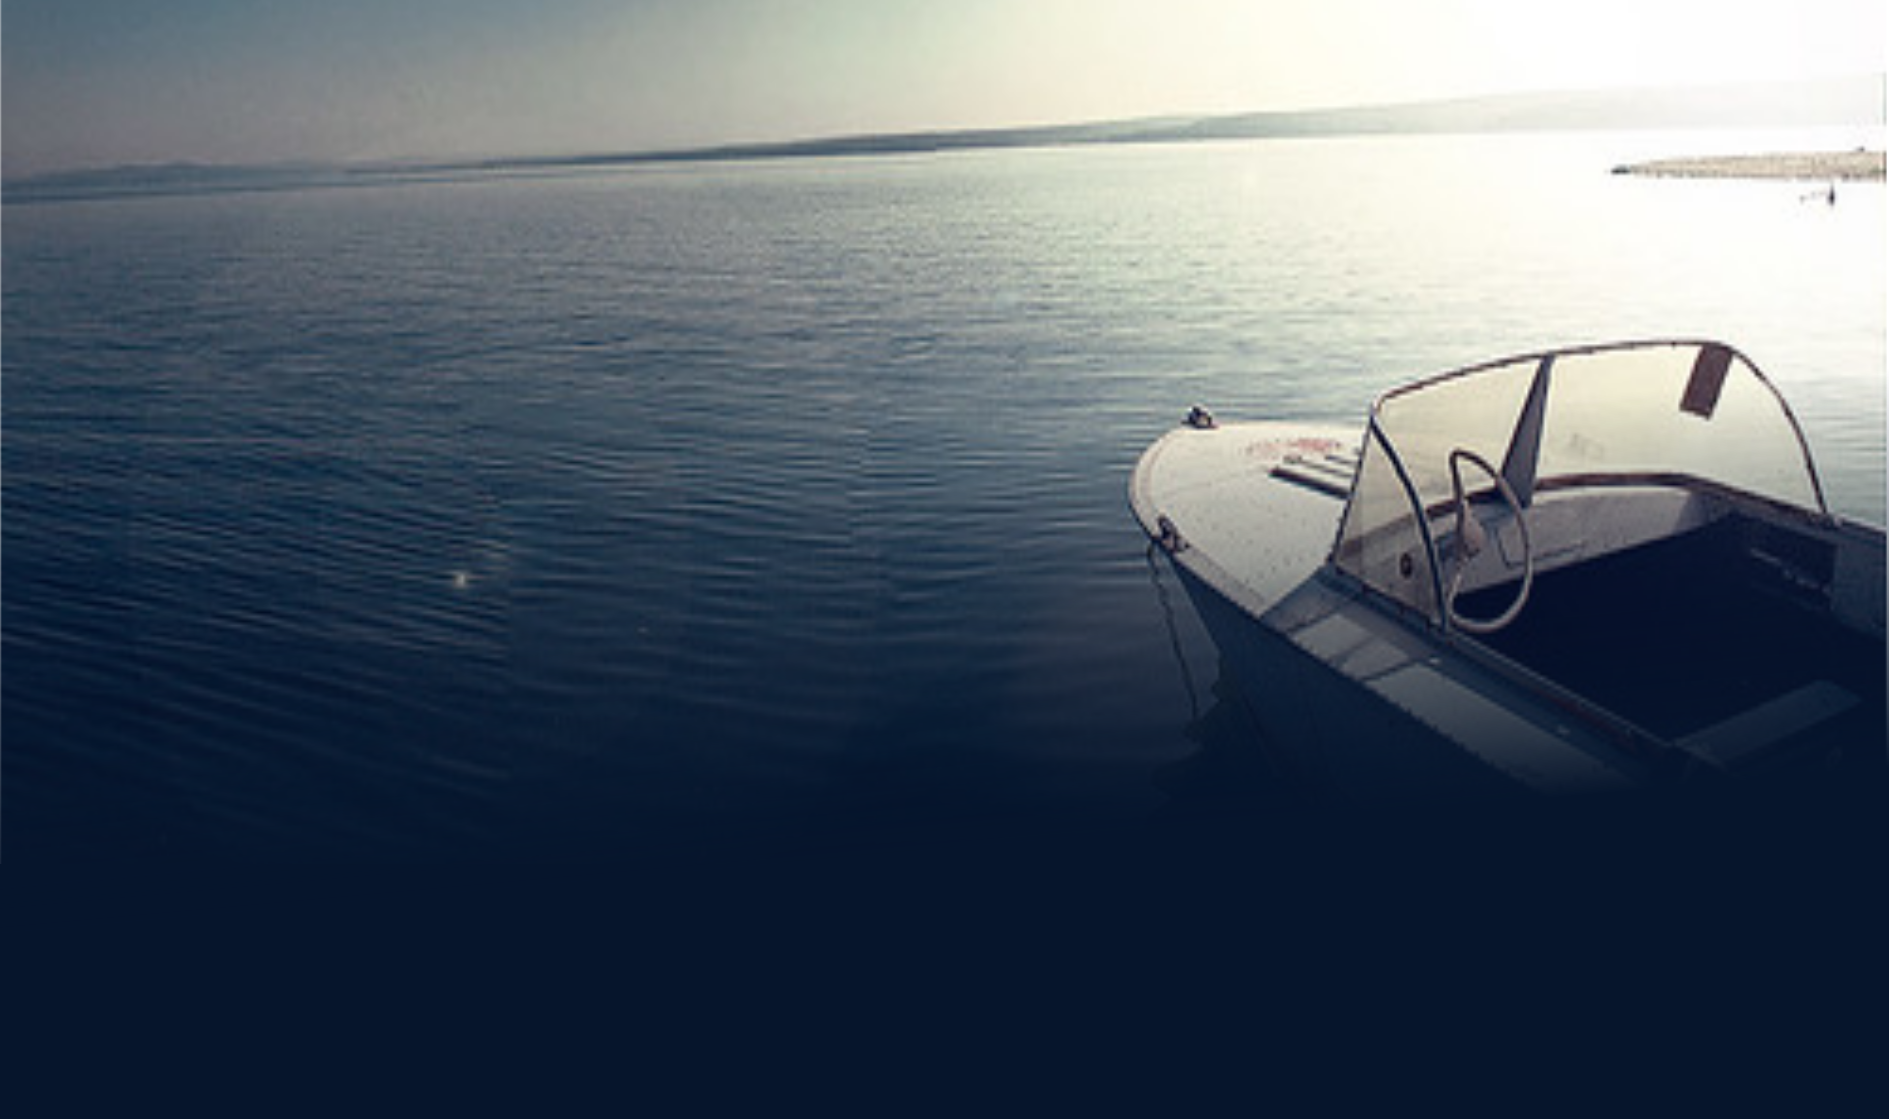
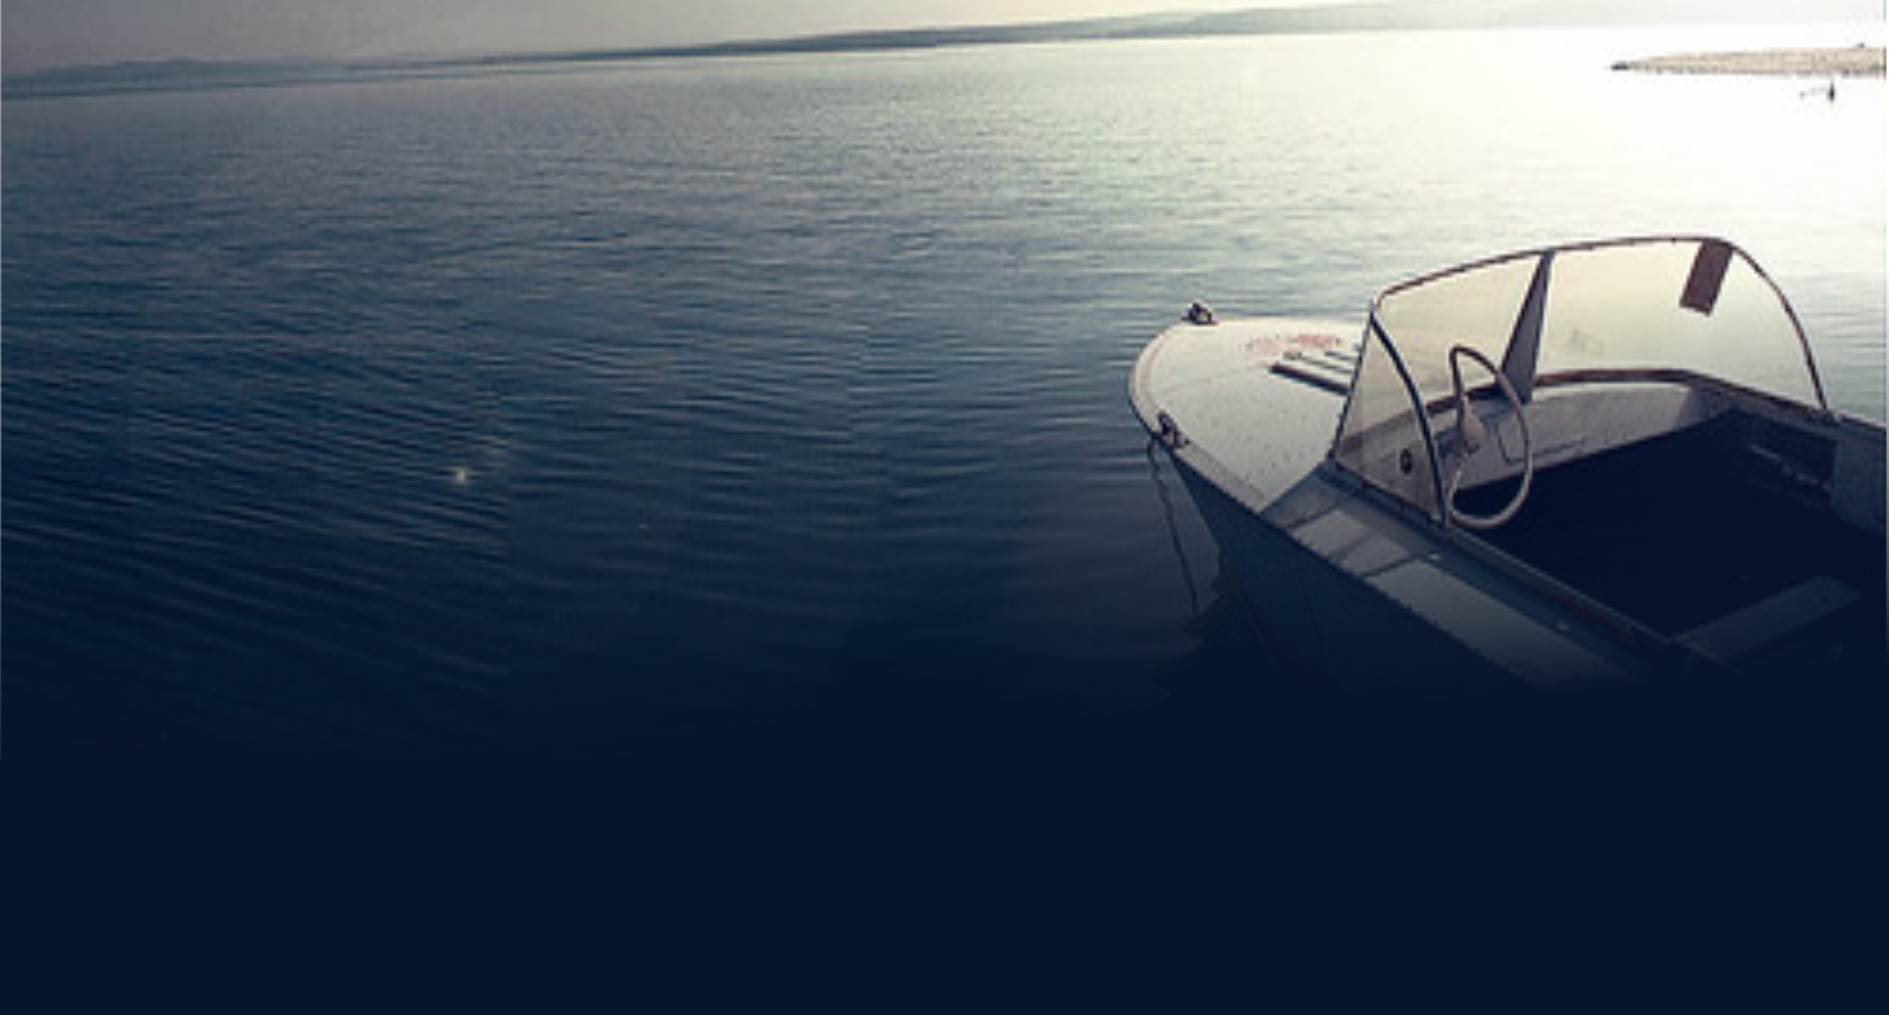
Nyt CVR

diff --git a/index.html b/index.html
@@ -1,53 +1,120 @@
 <!doctype html>
-<html lang="en">
+<html lang="da">
+    <head>
+        <meta charset="utf-8">
+        <meta name="viewport" content="width=device-width, initial-scale=1, shrink-to-fit=no">
+        <link rel="stylesheet" href="https://stackpath.bootstrapcdn.com/bootstrap/4.3.1/css/bootstrap.min.css" integrity="sha384-ggOyR0iXCbMQv3Xipma34MD+dH/1fQ784/j6cY/iJTQUOhcWr7x9JvoRxT2MZw1T" crossorigin="anonymous">
+        <link rel="stylesheet" href="header-footer.css" type="text/css" />
+        <link rel="stylesheet" href="styles.css" type="text/css" />
+        <link rel="SHORTCUT ICON" href="img/favicon.png" />
+        <link href="https://fonts.googleapis.com/css?family=Lexend+Exa&display=swap" rel="stylesheet">
+        <title>M.S. Bådteknik</title>
+    </head>
+  
+    <body>
 
-<head>
-    <meta http-equiv="Content-Type" content="text/html; charset=iso-8859-1" />
-    <style type="text/css"></style>
-    <link rel="stylesheet" href="styles.css" type="text/css" />
-    <meta content="Text/html" charset="utf-8" lang="da" />
-    <meta name="viewport" content="width=device-width, initial-scale=1, shrink-to-fit=no">
-    <title>M.S. Baadteknik</title>
-    <link rel="SHORTCUT ICON" href="img/favicon.png" />
-    <link rel="stylesheet" href="https://stackpath.bootstrapcdn.com/bootstrap/4.2.1/css/bootstrap.min.css"
-        integrity="sha384-GJzZqFGwb1QTTN6wy59ffF1BuGJpLSa9DkKMp0DgiMDm4iYMj70gZWKYbI706tWS" crossorigin="anonymous">
-</head>
-
-<body>
-
-
-
-
-
-
-
-
-
-    <div class="container">
-        <div class="row">
-            <div class="col-sm">
-                One of three columns
+        <nav class="navbar navbar-expand-sm navbar-light">
+            <div class="container">
+                <a href="index.html" class="navbar-brand">
+                    <img src="img/logo.png" class="img-responsive" alt="Logo" >
+                </a>
+                <button class="navbar-toggler" data-toggle="collapse" data-target="#navbarMenu">
+                    <span class="navbar-toggler-icon"></span>
+                </button>
+                <div class="collapse navbar-collapse" id="navbarMenu">
+                    <ul class="navbar-nav ml-auto" >
+                        <li class="nav-item">
+                            <a href="kontakt.html" class="nav-link">Kontakt</a>
+                        </li>
+                        <li class="nav-item">
+                            <a href="#" class="nav-link">Tips & tricks</a>
+                        </li>
+                    </ul>
+                </div>
             </div>
-            <div class="col-sm">
-                One of three columns
-            </div>
-            <div class="col-sm">
-                One of three columns
+        </nav>
+        
+
+
+        <div class="container">    
+            <div id="container-header">
+                <h1>M.S. Bådteknik</h1>
+                <br/>
+                <h4> Hjælp til motor- og sejlbåde</h4>
             </div>
         </div>
-    </div>
+
+        <div class="container">
+            <div class="row">
+                <div class="col-sm">
+                    <p><a href="#" class="link-unstyled"></p>
+                        <div id="icon-box-top">
+                            <img src="img/forside/c1.png" class="img-fluid" alt="Responsive image" id="icon">
+                            <br/>
+                            Reparation og <br/>service af motor
+                        </div>
+                    </a>
+                    </br>
+
+                    <p><a href="#" class="link-unstyled"></p>
+                        <div id="icon-box-bottom">
+                            <img src="img/forside/c2.png" class="img-fluid" alt="Responsive image" id="icon">
+                            </br>
+                            Vinterkonservering <br/>og klargøring
+                        </div>
+                    </a>
+                
+                </div>
+
+                <div class="col-sm">
+                    <p><a href="#" class="link-unstyled"></p>
+                        <div id="icon-box-top">
+                            <img src="img/forside/c6.png" class="img-fluid" alt="Responsive image" id="icon">
+                            <br/>
+                            Installation <br/>af udstyr
+                        </div>
+                    </a>
+                    <br/>
+
+                    <p><a href="#" class="link-unstyled"></p>
+                        <div id="icon-box-bottom">
+                            <img src="img/forside/c4.png" class="img-fluid" alt="Responsive image" id="icon">
+                            <br/>
+                            Forårsklargøring
+                        </div>
+                    </a>
+                </div>
+                
+                <div class="col-sm">
+                    <p><a href="#" class="link-unstyled"></p>
+                        <div id="icon-box-top">
+                            <img src="img/forside/c5.png" class="img-fluid" alt="Responsive image" id="icon">
+                            </br>
+                            Renovation af </br>12V elsystem
+                        </div>
+                    </a>
+                    <br/>
+
+                    <p><a href="#" class="link-unstyled"></p>
+                        <div id="icon-box-bottom">
+                            <img src="img/forside/c3.png" class="img-fluid" alt="Responsive image" id="icon">
+                            <br/>
+                            Reparation af <br/>glasfiber- og <br/>stålbåde
+                        </div>
+                    </a>
+                </div>
+            </div>
+        </div>
 
 
+        <div class="container">
+            <div class="footer-copyright text-center py-3">
+                © 2019 Copyright: M.S. Bådteknik - CVR:40703543
+            </div>
+        </div>
 
-    <script src="https://code.jquery.com/jquery-3.3.1.slim.min.js"
-        integrity="sha384-q8i/X+965DzO0rT7abK41JStQIAqVgRVzpbzo5smXKp4YfRvH+8abtTE1Pi6jizo"
-        crossorigin="anonymous"></script>
-    <script src="https://cdnjs.cloudflare.com/ajax/libs/popper.js/1.14.6/umd/popper.min.js"
-        integrity="sha384-wHAiFfRlMFy6i5SRaxvfOCifBUQy1xHdJ/yoi7FRNXMRBu5WHdZYu1hA6ZOblgut"
-        crossorigin="anonymous"></script>
-    <script src="https://stackpath.bootstrapcdn.com/bootstrap/4.2.1/js/bootstrap.min.js"
-        integrity="sha384-B0UglyR+jN6CkvvICOB2joaf5I4l3gm9GU6Hc1og6Ls7i6U/mkkaduKaBhlAXv9k"
-        crossorigin="anonymous"></script>
-</body>
-
+        <script src="https://code.jquery.com/jquery-3.3.1.slim.min.js" integrity="sha384-q8i/X+965DzO0rT7abK41JStQIAqVgRVzpbzo5smXKp4YfRvH+8abtTE1Pi6jizo" crossorigin="anonymous"></script>
+        <script src="https://cdnjs.cloudflare.com/ajax/libs/popper.js/1.14.7/umd/popper.min.js" integrity="sha384-UO2eT0CpHqdSJQ6hJty5KVphtPhzWj9WO1clHTMGa3JDZwrnQq4sF86dIHNDz0W1" crossorigin="anonymous"></script>
+        <script src="https://stackpath.bootstrapcdn.com/bootstrap/4.3.1/js/bootstrap.min.js" integrity="sha384-JjSmVgyd0p3pXB1rRibZUAYoIIy6OrQ6VrjIEaFf/nJGzIxFDsf4x0xIM+B07jRM" crossorigin="anonymous"></script>
+    </body>
 </html>

diff --git a/kontakt.html b/kontakt.html
@@ -1,22 +1,82 @@
-<html>
-<head>
-<meta http-equiv="Content-Type" content="text/html; charset=iso-8859-1">
-<style type="text/css"></style>
-<link rel="stylesheet" href="styles.css" type="text/css">
-<meta content="Text/html" charset="utf-8" lang="da" />
-<title>M.S. Baadteknik</title>
-<link rel="SHORTCUT ICON" href="img/favicon.png"/>
-<link rel="stylesheet" href="https://stackpath.bootstrapcdn.com/bootstrap/4.2.1/css/bootstrap.min.css" integrity="sha384-GJzZqFGwb1QTTN6wy59ffF1BuGJpLSa9DkKMp0DgiMDm4iYMj70gZWKYbI706tWS" crossorigin="anonymous">
-</head>
+<!doctype html>
+<html lang="da">
+    <head>
+        <meta charset="utf-8">
+        <meta name="viewport" content="width=device-width, initial-scale=1, shrink-to-fit=no">
+        <link rel="stylesheet" href="https://stackpath.bootstrapcdn.com/bootstrap/4.3.1/css/bootstrap.min.css" integrity="sha384-ggOyR0iXCbMQv3Xipma34MD+dH/1fQ784/j6cY/iJTQUOhcWr7x9JvoRxT2MZw1T" crossorigin="anonymous">
+        <link rel="stylesheet" href="header-footer.css" type="text/css" />
+        <link rel="stylesheet" href="styles.css" type="text/css" />
+        <link rel="stylesheet" href="kontakt.css" type="text/css" />
+        <link rel="SHORTCUT ICON" href="img/favicon.png" />
+        <link href="https://fonts.googleapis.com/css?family=Lexend+Exa&display=swap" rel="stylesheet">
+        <title>M.S. Bådteknik</title>
+    </head>
+  
+    <body>
 
-<body>
+        <nav class="navbar navbar-expand-sm navbar-light">
+            <div class="container">
+                <a href="index.html" class="navbar-brand"><img src="img/logo.png" class="img-responsive" alt="Logo" ></a>
+                <button class="navbar-toggler" data-toggle="collapse" data-target="#navbarMenu">
+                    <span class="navbar-toggler-icon"></span>
+                </button>
+                <div class="collapse navbar-collapse" id="navbarMenu">
+                    <ul class="navbar-nav ml-auto" >
+                        <li class="nav-item">
+                            <a href="index.html" class="nav-link">Tilbage til forside</a>
+                        </li>
+                        <li class="nav-item">
+                            <a href="#" class="nav-link">Tips & tricks</a>
+                        </li>
+                    </ul>
+                </div>
+            </div>
+        </nav>
+        
+        <div class="container">    
+            <div id="container-kontakt">
+                <h2>Kontakt mig for en uforpligtende <br/>samtale om dit problem</h2>
+            </div>
+        </div>
 
-    
+        <div class="container">
+            <div class="row">
+                <div class="col-sm">
+                    <div id="icon-box-kontakt">
+                        <img src="img/kontakt/phone.png" class="img-fluid" alt="Responsive image" id="icon">
+                        <br/>
+                        Telefon </br> +45 51 52 42 68
+                    </div>               
+                </div>
+
+                <div class="col-sm">
+                   <div id="icon-box-kontakt">
+                       <img src="img/kontakt/location.png" class="img-fluid" alt="Responsive image" id="icon">
+                       <br/>
+                       Adresse <br/>Tuborg Havnepark 14 <br/>2900 Hellerup
+                   </div>
+
+                </div>
+                
+                <div class="col-sm">
+                    <div id="icon-box-kontakt">
+                        <img src="img/kontakt/email.png" class="img-fluid" alt="Responsive image" id="icon">
+                        <br/>
+                        E-mail <br>msbaadteknik@outlook.dk
+                    </div>
+                </div>
+            </div>
+        </div>
 
 
+        <div class="container">
+            <div class="footer-copyright text-center py-3">
+                © 2019 Copyright: M.S. Bådteknik - CVR:40703543
+            </div>
+        </div>
 
-</body>
-
-<script src="https://code.jquery.com/jquery-3.3.1.slim.min.js" integrity="sha384-q8i/X+965DzO0rT7abK41JStQIAqVgRVzpbzo5smXKp4YfRvH+8abtTE1Pi6jizo" crossorigin="anonymous"></script>
-<script src="https://cdnjs.cloudflare.com/ajax/libs/popper.js/1.14.6/umd/popper.min.js" integrity="sha384-wHAiFfRlMFy6i5SRaxvfOCifBUQy1xHdJ/yoi7FRNXMRBu5WHdZYu1hA6ZOblgut" crossorigin="anonymous"></script>
-<script src="https://stackpath.bootstrapcdn.com/bootstrap/4.2.1/js/bootstrap.min.js" integrity="sha384-B0UglyR+jN6CkvvICOB2joaf5I4l3gm9GU6Hc1og6Ls7i6U/mkkaduKaBhlAXv9k" crossorigin="anonymous"></script>
+        <script src="https://code.jquery.com/jquery-3.3.1.slim.min.js" integrity="sha384-q8i/X+965DzO0rT7abK41JStQIAqVgRVzpbzo5smXKp4YfRvH+8abtTE1Pi6jizo" crossorigin="anonymous"></script>
+        <script src="https://cdnjs.cloudflare.com/ajax/libs/popper.js/1.14.7/umd/popper.min.js" integrity="sha384-UO2eT0CpHqdSJQ6hJty5KVphtPhzWj9WO1clHTMGa3JDZwrnQq4sF86dIHNDz0W1" crossorigin="anonymous"></script>
+        <script src="https://stackpath.bootstrapcdn.com/bootstrap/4.3.1/js/bootstrap.min.js" integrity="sha384-JjSmVgyd0p3pXB1rRibZUAYoIIy6OrQ6VrjIEaFf/nJGzIxFDsf4x0xIM+B07jRM" crossorigin="anonymous"></script>
+    </body>
+</html>

diff --git a/styles.css b/styles.css
@@ -1,0 +1,46 @@
+body{
+    background-size:100%;
+    background-image:url('img/wallpaper.png');
+    background-color:#06152cff;
+    background-repeat: no-repeat;
+    text-decoration: none;
+    font-family: 'Lexend Exa', sans-serif;
+}
+
+.col-sm{
+    margin: 0 auto;
+    background-color: white;
+    opacity: 0.7;
+    text-align: center;
+}
+
+#container-header{
+    margin-bottom: 8%;
+}
+
+#icon{
+    width: 50%;
+}
+
+#icon-box-top{
+    margin-top: 18%;
+    margin-bottom: 18%;
+    font-size: 18px;
+    color:black;
+    text-decoration: none;
+}
+
+#icon-box-bottom{
+    margin-bottom: 28%;
+    font-size: 18px;
+    color:black;
+    text-decoration: none;
+}
+
+#icon-box-top:hover{
+    opacity:0.8; filter:alpha(opacity=80);
+}
+
+#icon-box-bottom:hover{
+    opacity:0.8; filter:alpha(opacity=80);
+}

diff --git a/header-footer.css b/header-footer.css
@@ -1,0 +1,36 @@
+.img-responsive{
+    height:100px;
+}
+
+/* .navbar-light .nav-link{
+    color:#0c596aff;
+} */
+
+
+
+.nav-link:hover{
+    opacity:0.5; filter:alpha(opacity=50);
+}
+
+#container-footer{
+    width: 60%;
+    margin: auto;
+}
+
+
+h1 {
+    color:  white;
+    margin-bottom:-2.5%;
+    font-size: 60px;
+}
+
+h4 {
+    color:  white;
+    font-size: 20px;
+    text-indent: 0.5%;
+    letter-spacing: 0.2em;
+}
+
+.footer-copyright{
+    color:white;
+}

diff --git a/kontakt.css b/kontakt.css
@@ -1,0 +1,18 @@
+#icon-box-kontakt{
+    margin-top: 18%;
+    margin-bottom: 18%;
+    font-size: 18px;
+    color:black;
+    text-decoration: none;
+}
+
+#container-kontakt{
+    margin-bottom: 8%;
+    margin-top: 5%;
+    text-align: center;
+}
+
+h2{
+    color:white;
+    font-size: 270%;
+}
